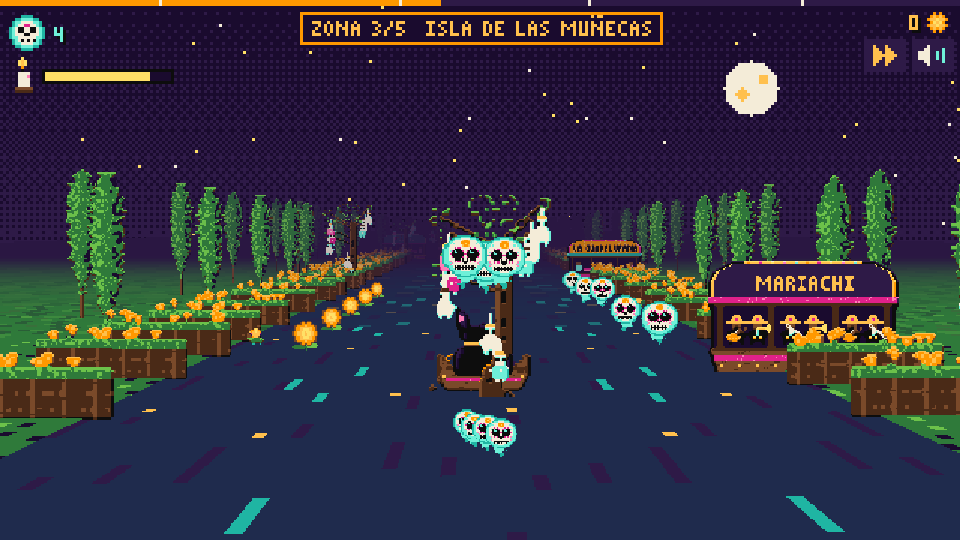
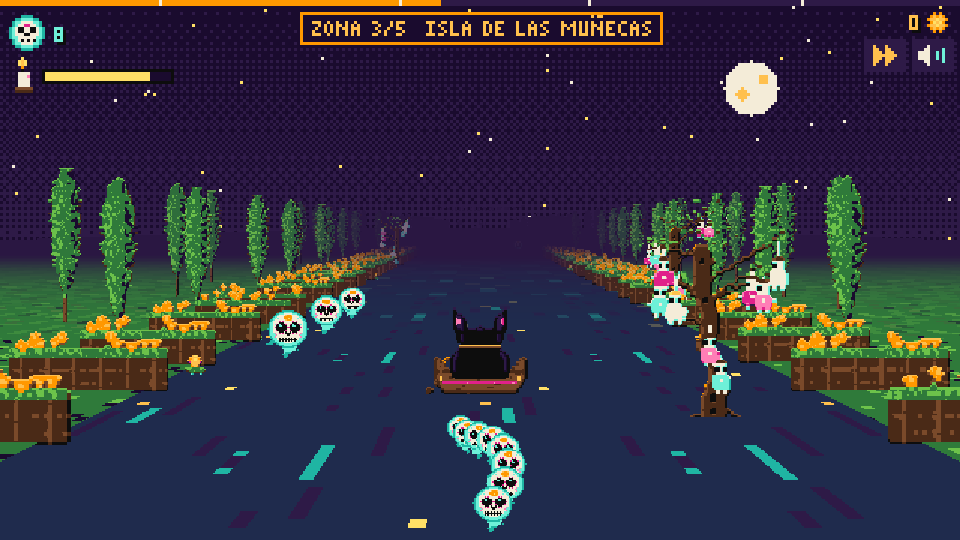
No boats parked on the shore; moored boats only in the water at El Lago's edges

diff --git a/about.html b/about.html
@@ -76,7 +76,7 @@
   <h2>The five zones</h2>
   <p>The thin bar at the top of the screen shows how far you are from Mictlán, and the box beside it shows the zone you're in (e.g. <code>ZONA 4/5 EL LAGO</code>).
     A full run takes about three minutes, or a little over one with <code>?short</code>.</p>
-  <div class="zone"><b>1 · EMBARCADERO</b>: the trajinera dock at Nativitas. A short tutorial teaches steering, jumping, lirios, ducking and candles. Boats are parked along the banks.<img src="./img/zone-1.png" alt="Embarcadero" loading="lazy"></div>
+  <div class="zone"><b>1 · EMBARCADERO</b>: the trajinera dock at Nativitas. A short tutorial teaches steering, jumping, lirios, ducking and candles. Boat docks line the banks.<img src="./img/zone-1.png" alt="Embarcadero" loading="lazy"></div>
   <div class="zone"><b>2 · CANAL PRINCIPAL</b>: the busiest stretch. Rows of trajineras, mariachi boats (listen for the trumpet), vendor canoes cutting across, and papel picado strung across the canal to duck under.<img src="./img/zone-2.png" alt="Canal Principal" loading="lazy"></div>
   <div class="zone"><b>3 · ISLA DE LAS MUÑECAS</b>: Island of the Dolls. Gnarled trees grow right out of the water, hung with dolls; they stand in the lanes (steer around them) and in the shallows along the banks. The fog is thick, and you get more souls but less light.<img src="./img/zone-3.png" alt="Isla de las Muñecas" loading="lazy"></div>
   <div class="zone"><b>4 · EL LAGO</b>: the canal opens into a wide lake under a dawn-pink horizon. This is La Llorona's home and the only place she appears: in the lanes like the boats (sometimes two at once), along the banks and floating across the sky, plus drifting boats on the open water.<img src="./img/zone-4.png" alt="El Lago" loading="lazy"></div>
@@ -102,7 +102,7 @@
   <a class="play" href="./">▶ PLAY</a>
 </main>
 <script type="module">
-  import { SPRITES, gridToCanvas } from './sprites.js?v=7';
+  import { SPRITES, gridToCanvas } from './sprites.js?v=8';
   const PICKUPS = [
     ['soul', 'Lost soul', 'good', 'Joins your trail. Low ones float on the water; high ones need a jump.'],
     ['candle', 'Candle', 'good', 'Refills half of your light and pushes the fog back. It glows through the darkness, so you can always find one.'],

diff --git a/main.js b/main.js
@@ -2,7 +2,7 @@
 // Three.js renders into a 320x180 target that is upscaled with nearest-neighbor
 // filtering. Every object in the world is a camera-facing pixel-art sprite.
 import * as THREE from 'three';
-import { PALETTE, SPRITES, ICONS, gridToCanvas, textWidth, forEachTextPixel } from './sprites.js?v=7';
+import { PALETTE, SPRITES, ICONS, gridToCanvas, textWidth, forEachTextPixel } from './sprites.js?v=8';
 
 // ===========================================================================
 // CONFIG — every tuning value lives here so it can be tweaked during a demo.
@@ -22,7 +22,7 @@ const CONFIG = {
     { name: 'MICTLÁN', sub: 'EL MÁS ALLÁ TE ESPERA', dur: 30, rowEvery: 0,
       patterns: {}, soulChance: 0, highSouls: 0, petalChance: 0, fogMul: 2, bankWiden: 5 },
   ],
-  bankBoatEvery: [0.8, 1.8], // seconds between parked boats on the banks
+  bankBoatEvery: [0.8, 1.8], // seconds between docks (Embarcadero) / moored boats at the lake edge (El Lago)
   bankLloronaEvery: [0.7, 1.6], // seconds between harmless Lloronas on the banks (El Lago only)
   skyLloronaEvery: [1.5, 3.5],  // seconds between Lloronas floating across the sky (El Lago only)
   zoneTimeScale: 1,          // multiply all zone durations (?short=1 sets 0.4)
@@ -1089,13 +1089,13 @@ function updateDecorSpawns(dt) {
     G.buntingT = rand(8, 14);
     spawn('decor', 'bunting', 0, CONFIG.spawnZ, { y: 3.4 });
   }
-  // Parked trajineras line the banks in every zone (docks only at the embarcadero).
+  // Docks at the embarcadero; on El Lago, moored boats float in the water along the far edges.
   G.decorT -= dt;
   if (G.decorT <= 0) {
     G.decorT = rand(CONFIG.bankBoatEvery[0], CONFIG.bankBoatEvery[1]);
     const side = pick([-1, 1]);
     if (G.zone === 0 && Math.random() < 0.35) spawn('decor', 'dock', side * (G.bankX + 0.6), CONFIG.spawnZ, { y: -0.2 });
-    else spawn('decor', pick(['traj0', 'traj1', 'traj2', 'mariachi']), side * (G.bankX + 0.3), CONFIG.spawnZ, { y: -0.12 });
+    else if (G.zone === 3 && G.bankX > 6.5) spawn('decor', pick(['traj0', 'traj1', 'traj2', 'mariachi']), side * (G.bankX - 1.4), CONFIG.spawnZ, { y: -0.12 });
   }
   // Harmless Lloronas haunt the banks (more of them deeper into the night)...
   if (state === 'play' && G.zone === 3) {

diff --git a/index.html b/index.html
@@ -38,6 +38,6 @@
   <a id="about" href="./about.html" onpointerdown="event.stopPropagation()" onmousedown="event.stopPropagation()" ontouchstart="event.stopPropagation()" onclick="event.stopPropagation()">ABOUT / CÓMO SE JUEGA</a>
   <button id="jump" aria-label="Jump">JUMP</button>
   <div id="rotate"><div class="phone"></div>GIRA TU TELÉFONO<br /><small>Rotate your phone to landscape</small></div>
-  <script type="module" src="./main.js?v=7"></script>
+  <script type="module" src="./main.js?v=8"></script>
 </body>
 </html>
